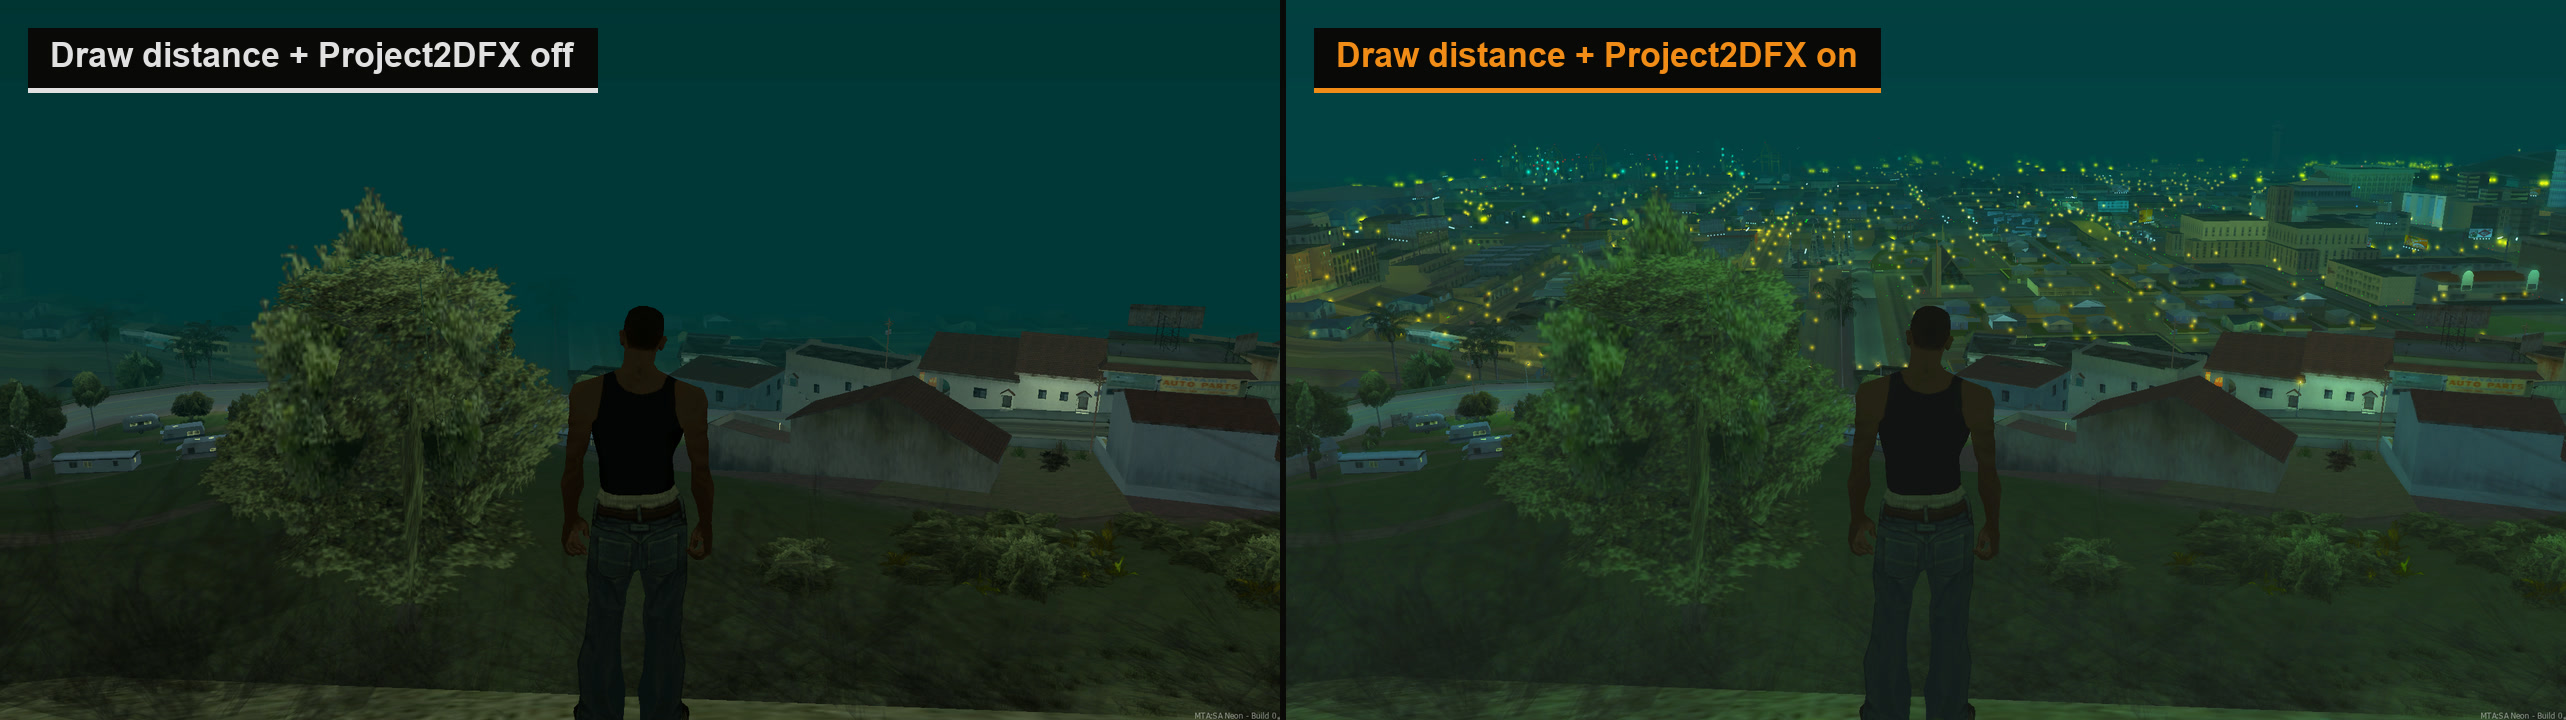
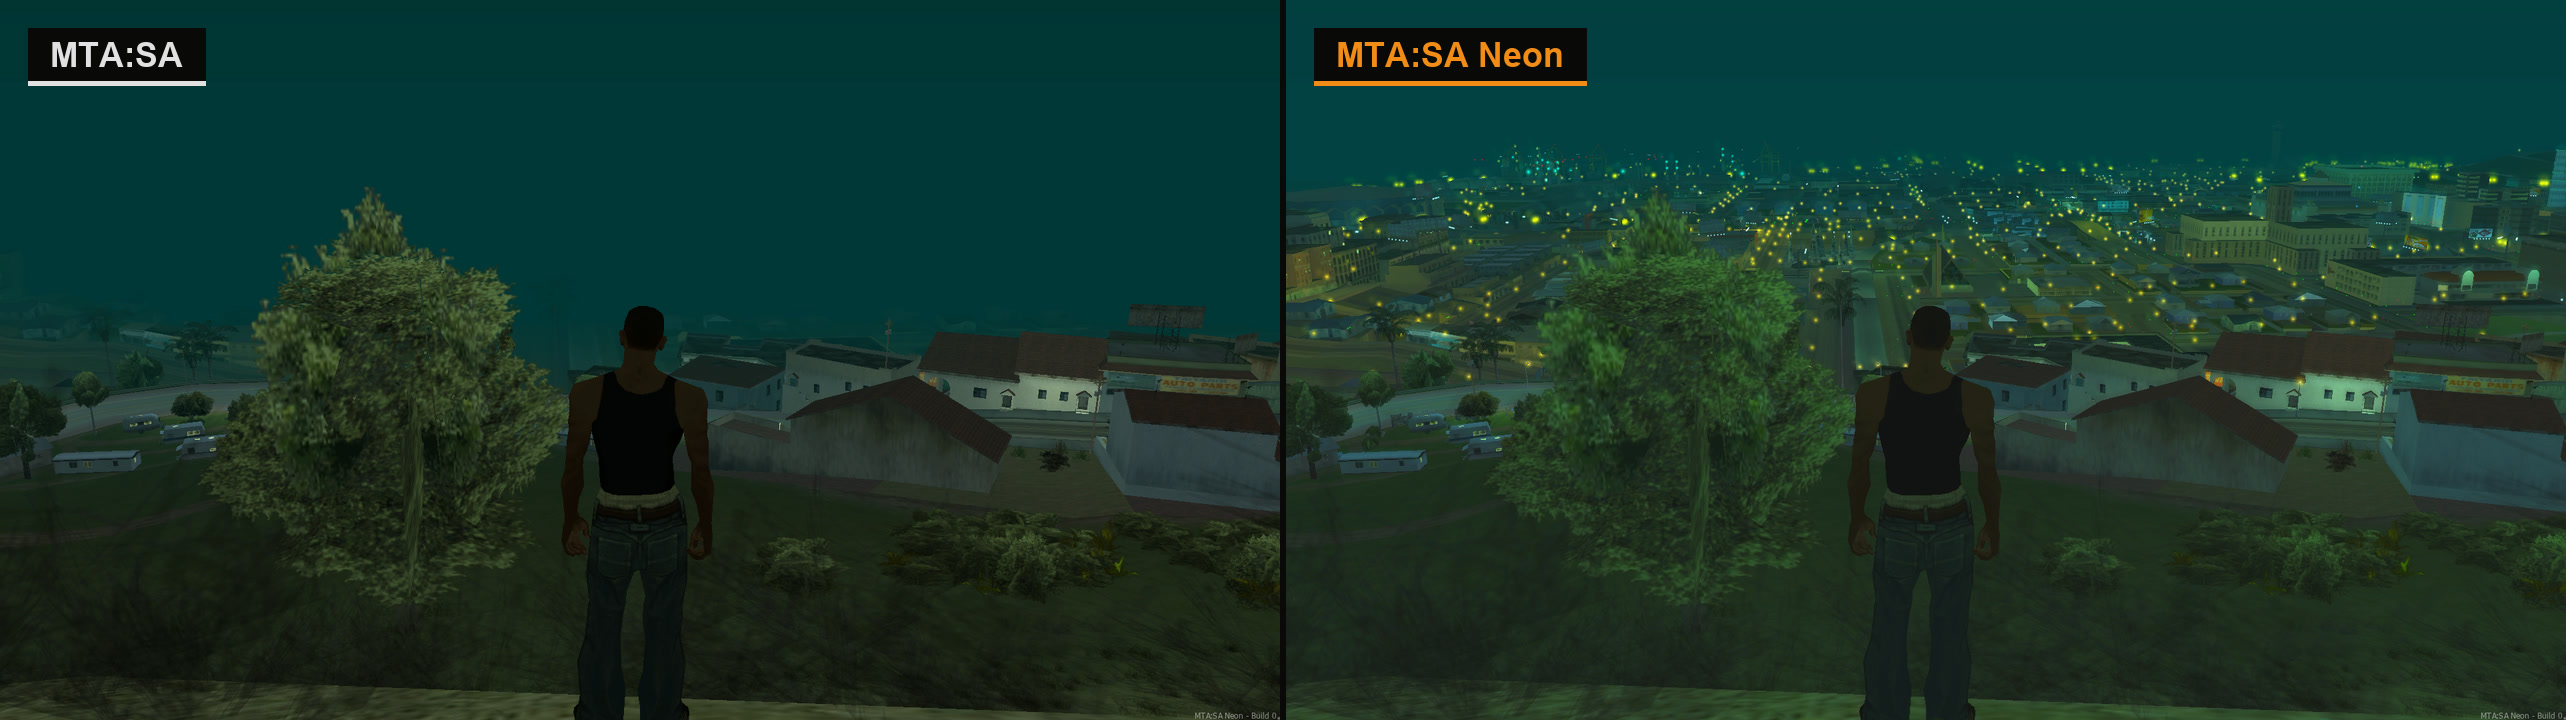
docs(readme): reframe the visual comparisons
Label the comparisons MTA:SA versus MTA:SA Neon and name the features in
plain language instead of leading with the ASI project names, which made
built-in rendering read as bundled third-party mods. State once that Neon
renders them itself with nothing to install.

Drop the capture methodology from the captions and trim the override
paragraph; that detail belongs on the wiki.

Changed region(s): [[0.0, 0.0306, 0.2494, 0.1528], [0.4988, 0.0306, 0.7482, 0.1528]]

diff --git a/README.md b/README.md
@@ -106,27 +106,22 @@ preferences:
   radiosity, and YCbCr color correction. This is not the complete SkyGFX
   renderer or a claim of full PS2 parity.
 
-All three feature groups remain off on a clean installation. Resource or server
-overrides for extended draw distance and Project2DFX take priority while
-connected; the player's saved baseline is restored when those runtime overrides
-are reset or the mod unloads. The corona-radius control scales every Neon
-Project2DFX distant corona, but does not resize GTA's ordinary nearby coronas.
-It tunes Neon's private renderer, which follows Project2DFX's square, buffered
-sprite projection without consuming GTA/MTA's shared corona pool.
+All three stay off on a clean installation. Servers and resources can override
+them while connected, and the player's own settings come back afterwards.
 
-Each comparison below is the same Neon client with the option toggled, not two different builds. Everything shown is off by default and switched on from the Neon settings tab.
+Neon renders all of this itself. Nothing to install and no ASI files: every option is a toggle in the settings menu, and servers can drive them too.
 
-**Extended draw distance.** MTA's original far clip on the left, Neon's extended draw distance on the right.
+**Draw distance**
 
-![Extended draw distance comparison from a rooftop over Los Santos: distant buildings are flat low-detail blobs with MTA's original far clip, and resolve into detailed geometry with Neon's extended draw distance](docs/media/compare-draw-distance.jpg)
+![Rooftop view over Los Santos: distant buildings are flat low-detail blobs in MTA:SA and resolve into detailed geometry in Neon](docs/media/compare-draw-distance.jpg)
 
-**Project2DFX at night.** The same viewpoint 13 seconds apart, with extended draw distance and Project2DFX off, then on.
+**Distant lights at night**
 
-![Night comparison over Las Venturas: the city is fogged out beyond a short distance with the features off, and appears in full with hundreds of distant coronas and traffic lights with them on](docs/media/compare-project2dfx.jpg)
+![Night view over the city: fogged out beyond a short distance in MTA:SA, full skyline with hundreds of distant lights in Neon](docs/media/compare-project2dfx.jpg)
 
-**SkyGFX.** The stock rendering on the left, Neon's selected PS2-style color path on the right.
+**PS2-style color**
 
-![Street-level comparison in Ganton: neutral stock colors on the left, warmer and more saturated PS2-style grading on the right](docs/media/compare-skygfx.jpg)
+![Street-level view in Ganton: neutral colors in MTA:SA, warmer and more saturated PS2-style grading in Neon](docs/media/compare-skygfx.jpg)
 
 ### Extended-world validation examples
 
@@ -140,13 +135,11 @@ These maps are test cases, not built-in Neon worlds or engine dependencies. Thei
 
 ### The Neon client
 
-Neon ships its own GTA:SA-inspired shell instead of the standard MTA one, with an optional Discord-backed identity shown in the corner.
+Neon ships its own GTA:SA-inspired shell instead of the standard MTA one, with an optional Discord identity.
 
-![Neon main menu in the GTA:SA visual style, with browse servers, quick connect, map editor, settings, about and quit entries, and a Discord connected identity badge](docs/media/neon-main-menu.jpg)
+![Neon main menu in the GTA:SA visual style, with browse servers, quick connect, map editor, settings, about and quit entries, and a Discord connected badge](docs/media/neon-main-menu.jpg)
 
-The server browser lists Neon servers with regions, languages, ping and player counts, and a details panel for the selected destination.
-
-![Neon server browser showing a list of community servers with flags, ping and player counts, and a details panel with description, regions and languages for the selected server](docs/media/neon-server-browser.jpg)
+![Neon server browser showing community servers with flags, ping and player counts, and a details panel for the selected server](docs/media/neon-server-browser.jpg)
 
 <!-- MEDIA PLACEHOLDER: Vehicle audio. Prefer a short captioned video/GIF demonstrating configured engine audio and a backfire; audio should also be available in the linked video rather than relying on an animated image alone. -->
 
